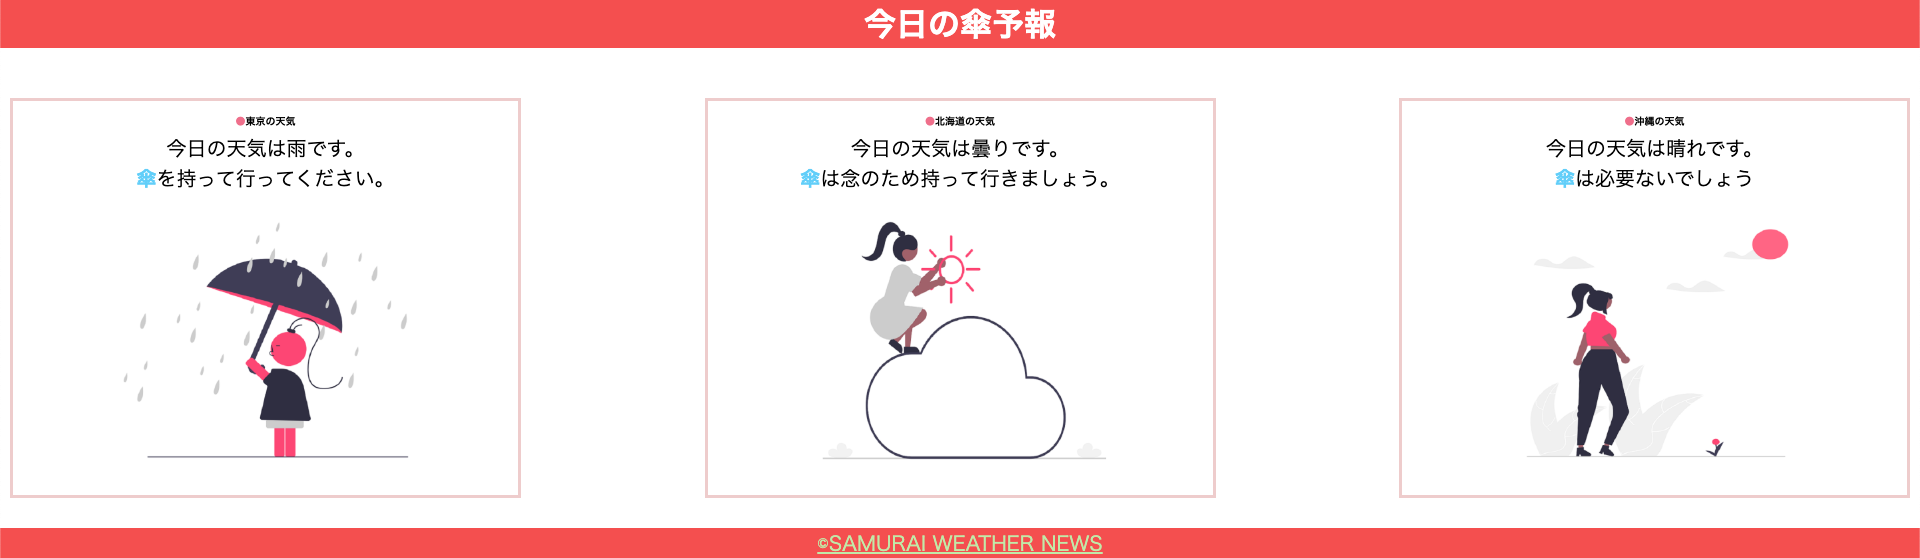
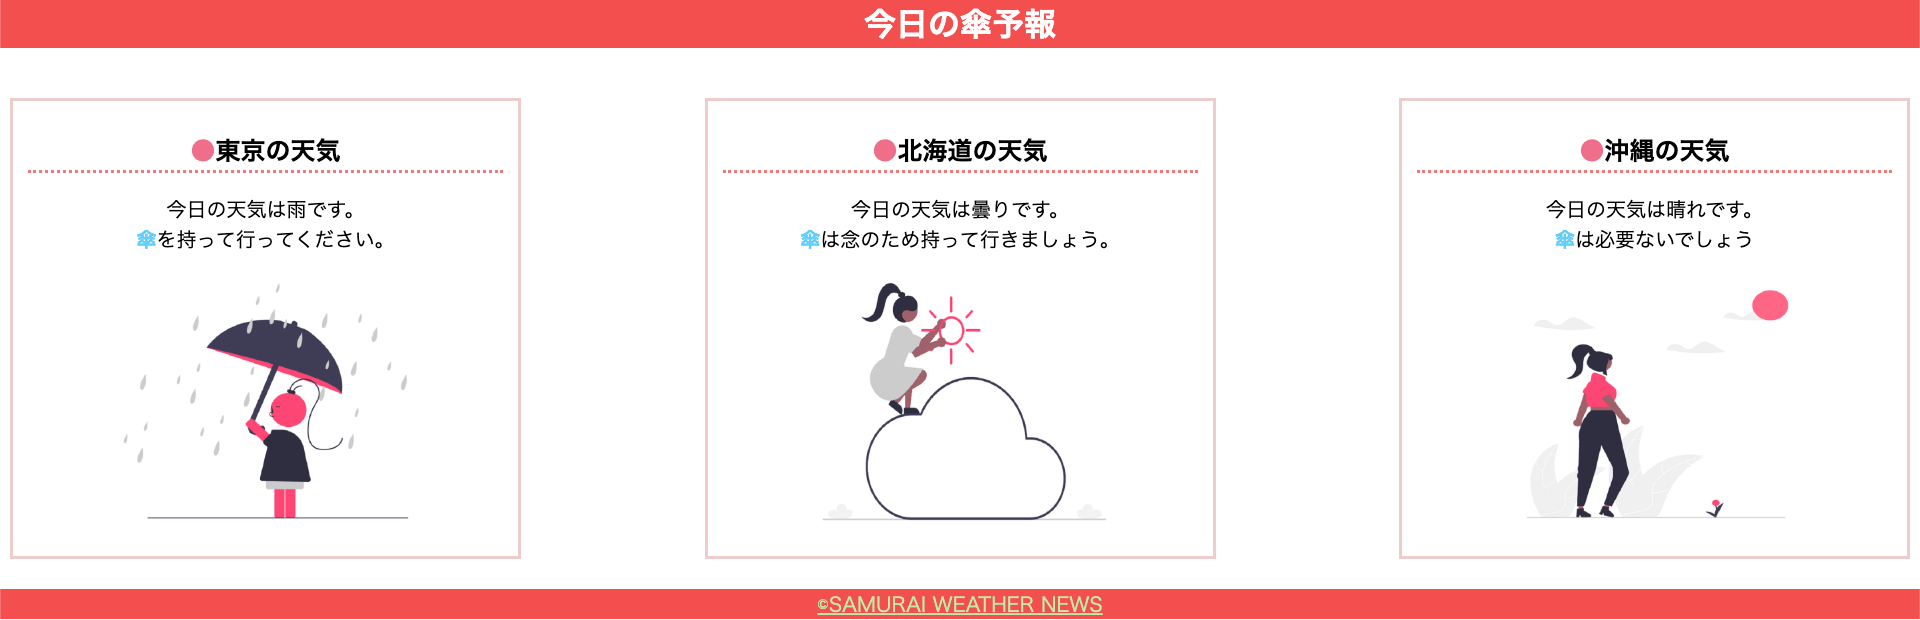
kadai_022_screenshotを最新版に更新

diff --git a/kadai_022/kadai_022.html b/kadai_022/kadai_022.html
@@ -11,7 +11,7 @@
        
         <header>
             <h1>今日の傘予報</h1>
-        </header>  
+        </header>
  
         <main>
 

diff --git a/kadai_022/style.css b/kadai_022/style.css
@@ -34,7 +34,8 @@ main {
 }
 
 h2 {
-    font-size: 25%; 
+    font-size: 25px; 
+    border-bottom: dotted rgb(236, 122, 122);
 }
 
 h2::before {
